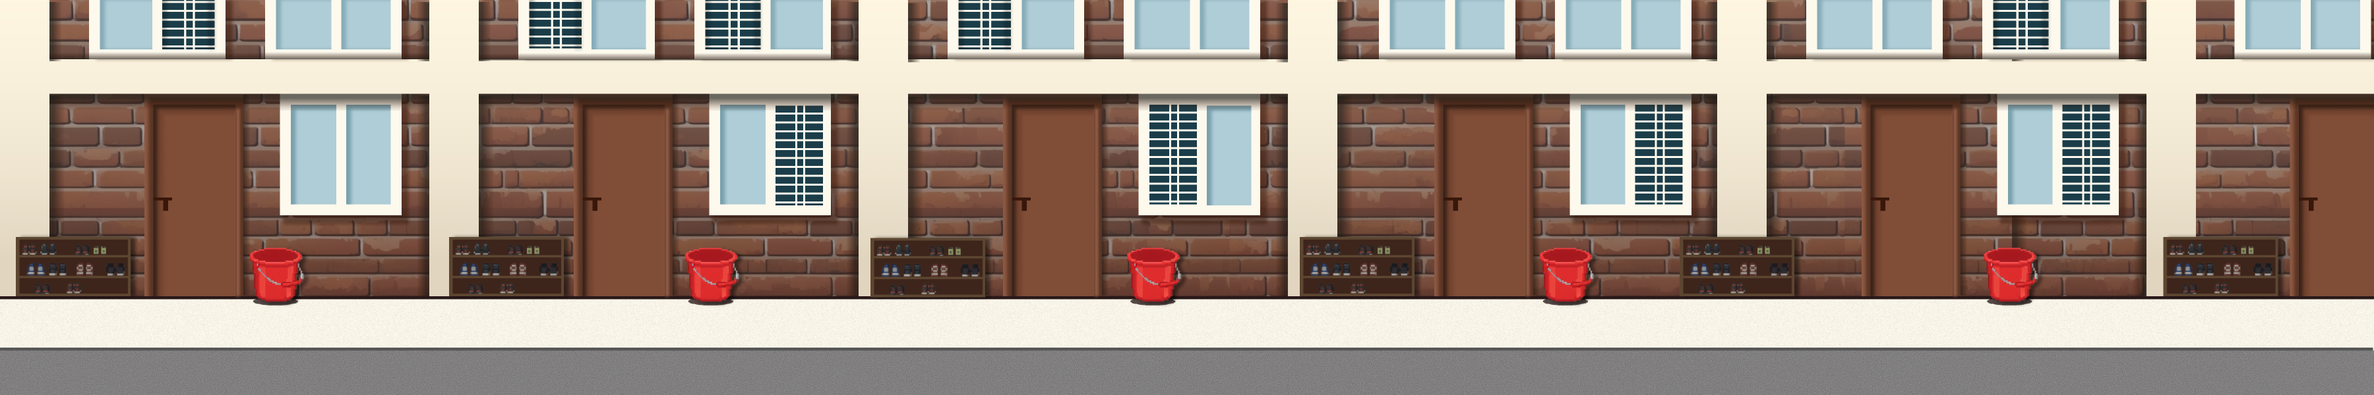
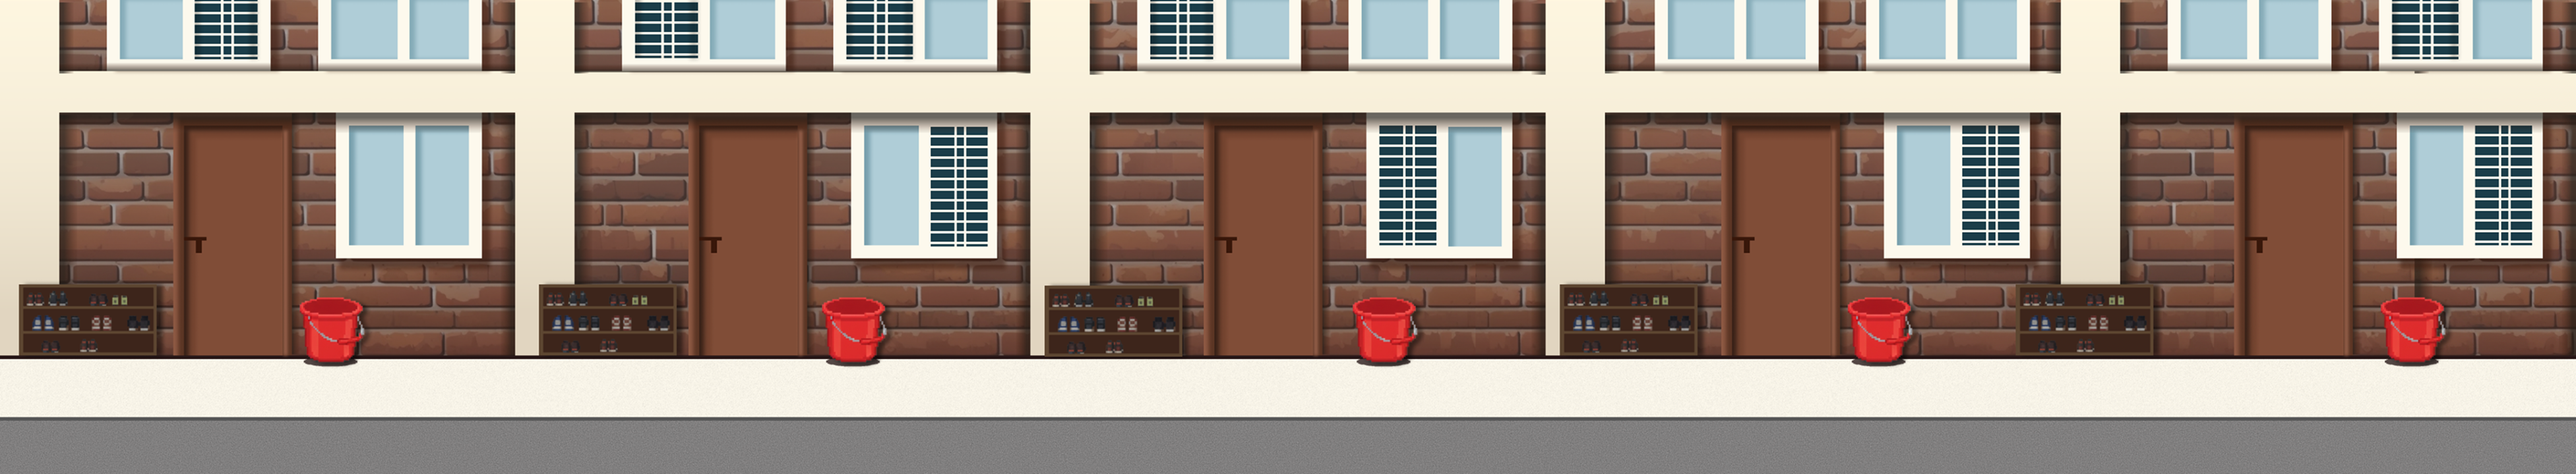
background changes with level

diff --git a/src/main/java/edu/bauet/java/cse/duckrun/entities/Duck.java b/src/main/java/edu/bauet/java/cse/duckrun/entities/Duck.java
@@ -7,14 +7,16 @@ import javafx.scene.image.ImageView;
 public class Duck {
 
     private ImageView duckView;
+    private Image runningImage;
+    private Image crouchingImage;
 
     private double velocityY = 0;
     private double groundLine;
 
     // Configurable physics
-    private double gravityUp = 0.6;
-    private double gravityDown = 1.4;
-    private double jumpForce = -15;
+    private double gravityUp = 1.2;
+    private double gravityDown = 0.05; // Adjusted for slower fall
+    private double jumpForce = -16;
 
     private boolean crouching = false;
 
@@ -22,11 +24,18 @@ public class Duck {
 
         this.groundLine = groundLine;
 
-        Image duckImage = new Image(
+        runningImage = new Image(
                 getClass().getResource("/images/duck/running.png").toExternalForm()
         );
+        
+        crouchingImage = new Image(
+                getClass().getResource("/images/duck/ducking.png").toExternalForm()
+        );
 
-        duckView = new ImageView(duckImage);
+        duckView = new ImageView(runningImage);
+        duckView.setFitHeight(80);
+        duckView.setFitWidth(80);
+        duckView.setPreserveRatio(false);
         duckView.setLayoutX(x);
         duckView.setLayoutY(groundLine);
     }
@@ -36,10 +45,10 @@ public class Duck {
         // Apply gravity only if not on ground
         if (!isOnGround()) {
 
-            if (velocityY < 0) {
+            if (velocityY <= 0) {
                 velocityY += gravityUp;      // Going up
             } else {
-                velocityY += gravityDown;    // Falling down
+                velocityY = gravityDown;    // Falling down
             }
         }
 
@@ -64,7 +73,14 @@ public class Duck {
 
     public void setCrouching(boolean crouch) {
         this.crouching = crouch;
-        duckView.setScaleY(crouch ? 0.7 : 1.0);
+        if (crouch) {
+            duckView.setImage(crouchingImage);
+            // Adjust height if needed, or keep it same but change image
+            // duckView.setFitHeight(60); // Example if crouching image is shorter
+        } else {
+            duckView.setImage(runningImage);
+            // duckView.setFitHeight(80);
+        }
     }
 
     // 🔥 Physics setters (very important)

diff --git a/src/main/java/edu/bauet/java/cse/duckrun/scenes/GameScene.java b/src/main/java/edu/bauet/java/cse/duckrun/scenes/GameScene.java
@@ -22,7 +22,7 @@ public class GameScene {
     private ImageView bg1;
     private ImageView bg2;
 
-    private static final double WORLD_SPEED = 5;
+    private static final double WORLD_SPEED = 3;
 
     public GameScene(String backgroundPath) {
         initialize(backgroundPath);
@@ -57,11 +57,14 @@ public class GameScene {
         bg1 = new ImageView(bgImage);
         bg2 = new ImageView(bgImage);
 
-        bg1.setFitWidth(MainApp.WINDOW_WIDTH);
-        bg1.setFitHeight(MainApp.WINDOW_HEIGHT);
+        bg1.setPreserveRatio(false);
+        bg2.setPreserveRatio(false);
 
-        bg2.setFitWidth(MainApp.WINDOW_WIDTH);
-        bg2.setFitHeight(MainApp.WINDOW_HEIGHT);
+        bg1.setFitWidth(1280*2.5);
+        bg1.setFitHeight(720);
+
+        bg2.setFitWidth(1280*2.5);
+        bg2.setFitHeight(720);
 
         bg1.setLayoutX(0);
         bg2.setLayoutX(MainApp.WINDOW_WIDTH);
@@ -69,7 +72,7 @@ public class GameScene {
 
     private void createPlayer() {
 
-        double groundLine = MainApp.WINDOW_HEIGHT - 120;
+        double groundLine = MainApp.WINDOW_HEIGHT - 180;
 
         duck = new Duck(200, groundLine);
 
